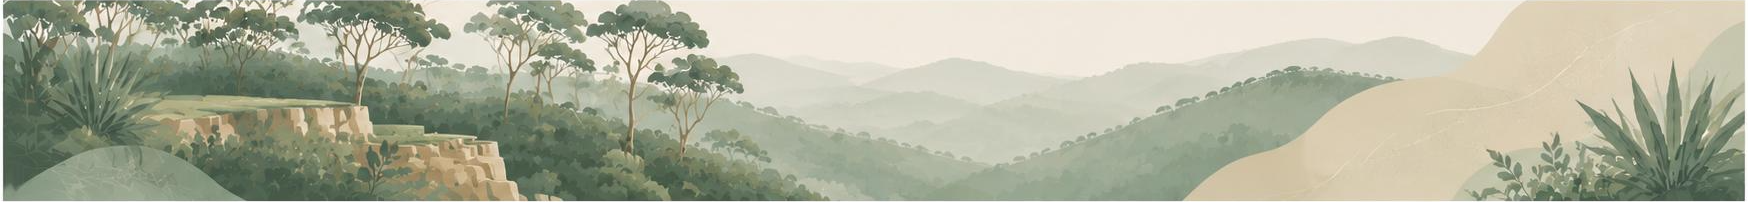
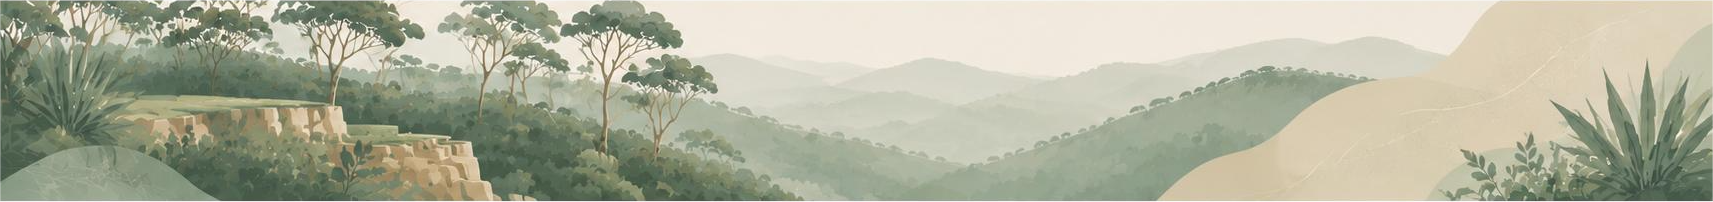
update via website-editor skill

diff --git a/style.css b/style.css
@@ -82,11 +82,15 @@ header {
         font-size: 1.1rem;
     }
 
-    .index-hero, .contact-hero {
-        padding: 3rem 1rem;
-        min-height: 300px;
-        background-size: cover !important; /* Forces image to fill space and crop to fit */
+    .hero {
+        aspect-ratio: 2 / 1; /* More vertical ratio for mobile */
+        background-size: 150% !important; /* Zoomed in look */
         background-position: center;
+    }
+
+    .index-hero {
+        aspect-ratio: auto;
+        min-height: 400px;
     }
 
     .top-banner {
@@ -152,6 +156,10 @@ header {
     .mobile-profile {
         display: block !important;
     }
+}
+
+.home-main {
+    margin-top: 4rem; /* Spacing between banner and Meet the OT */
 }
 
 @media (min-width: 601px) {
